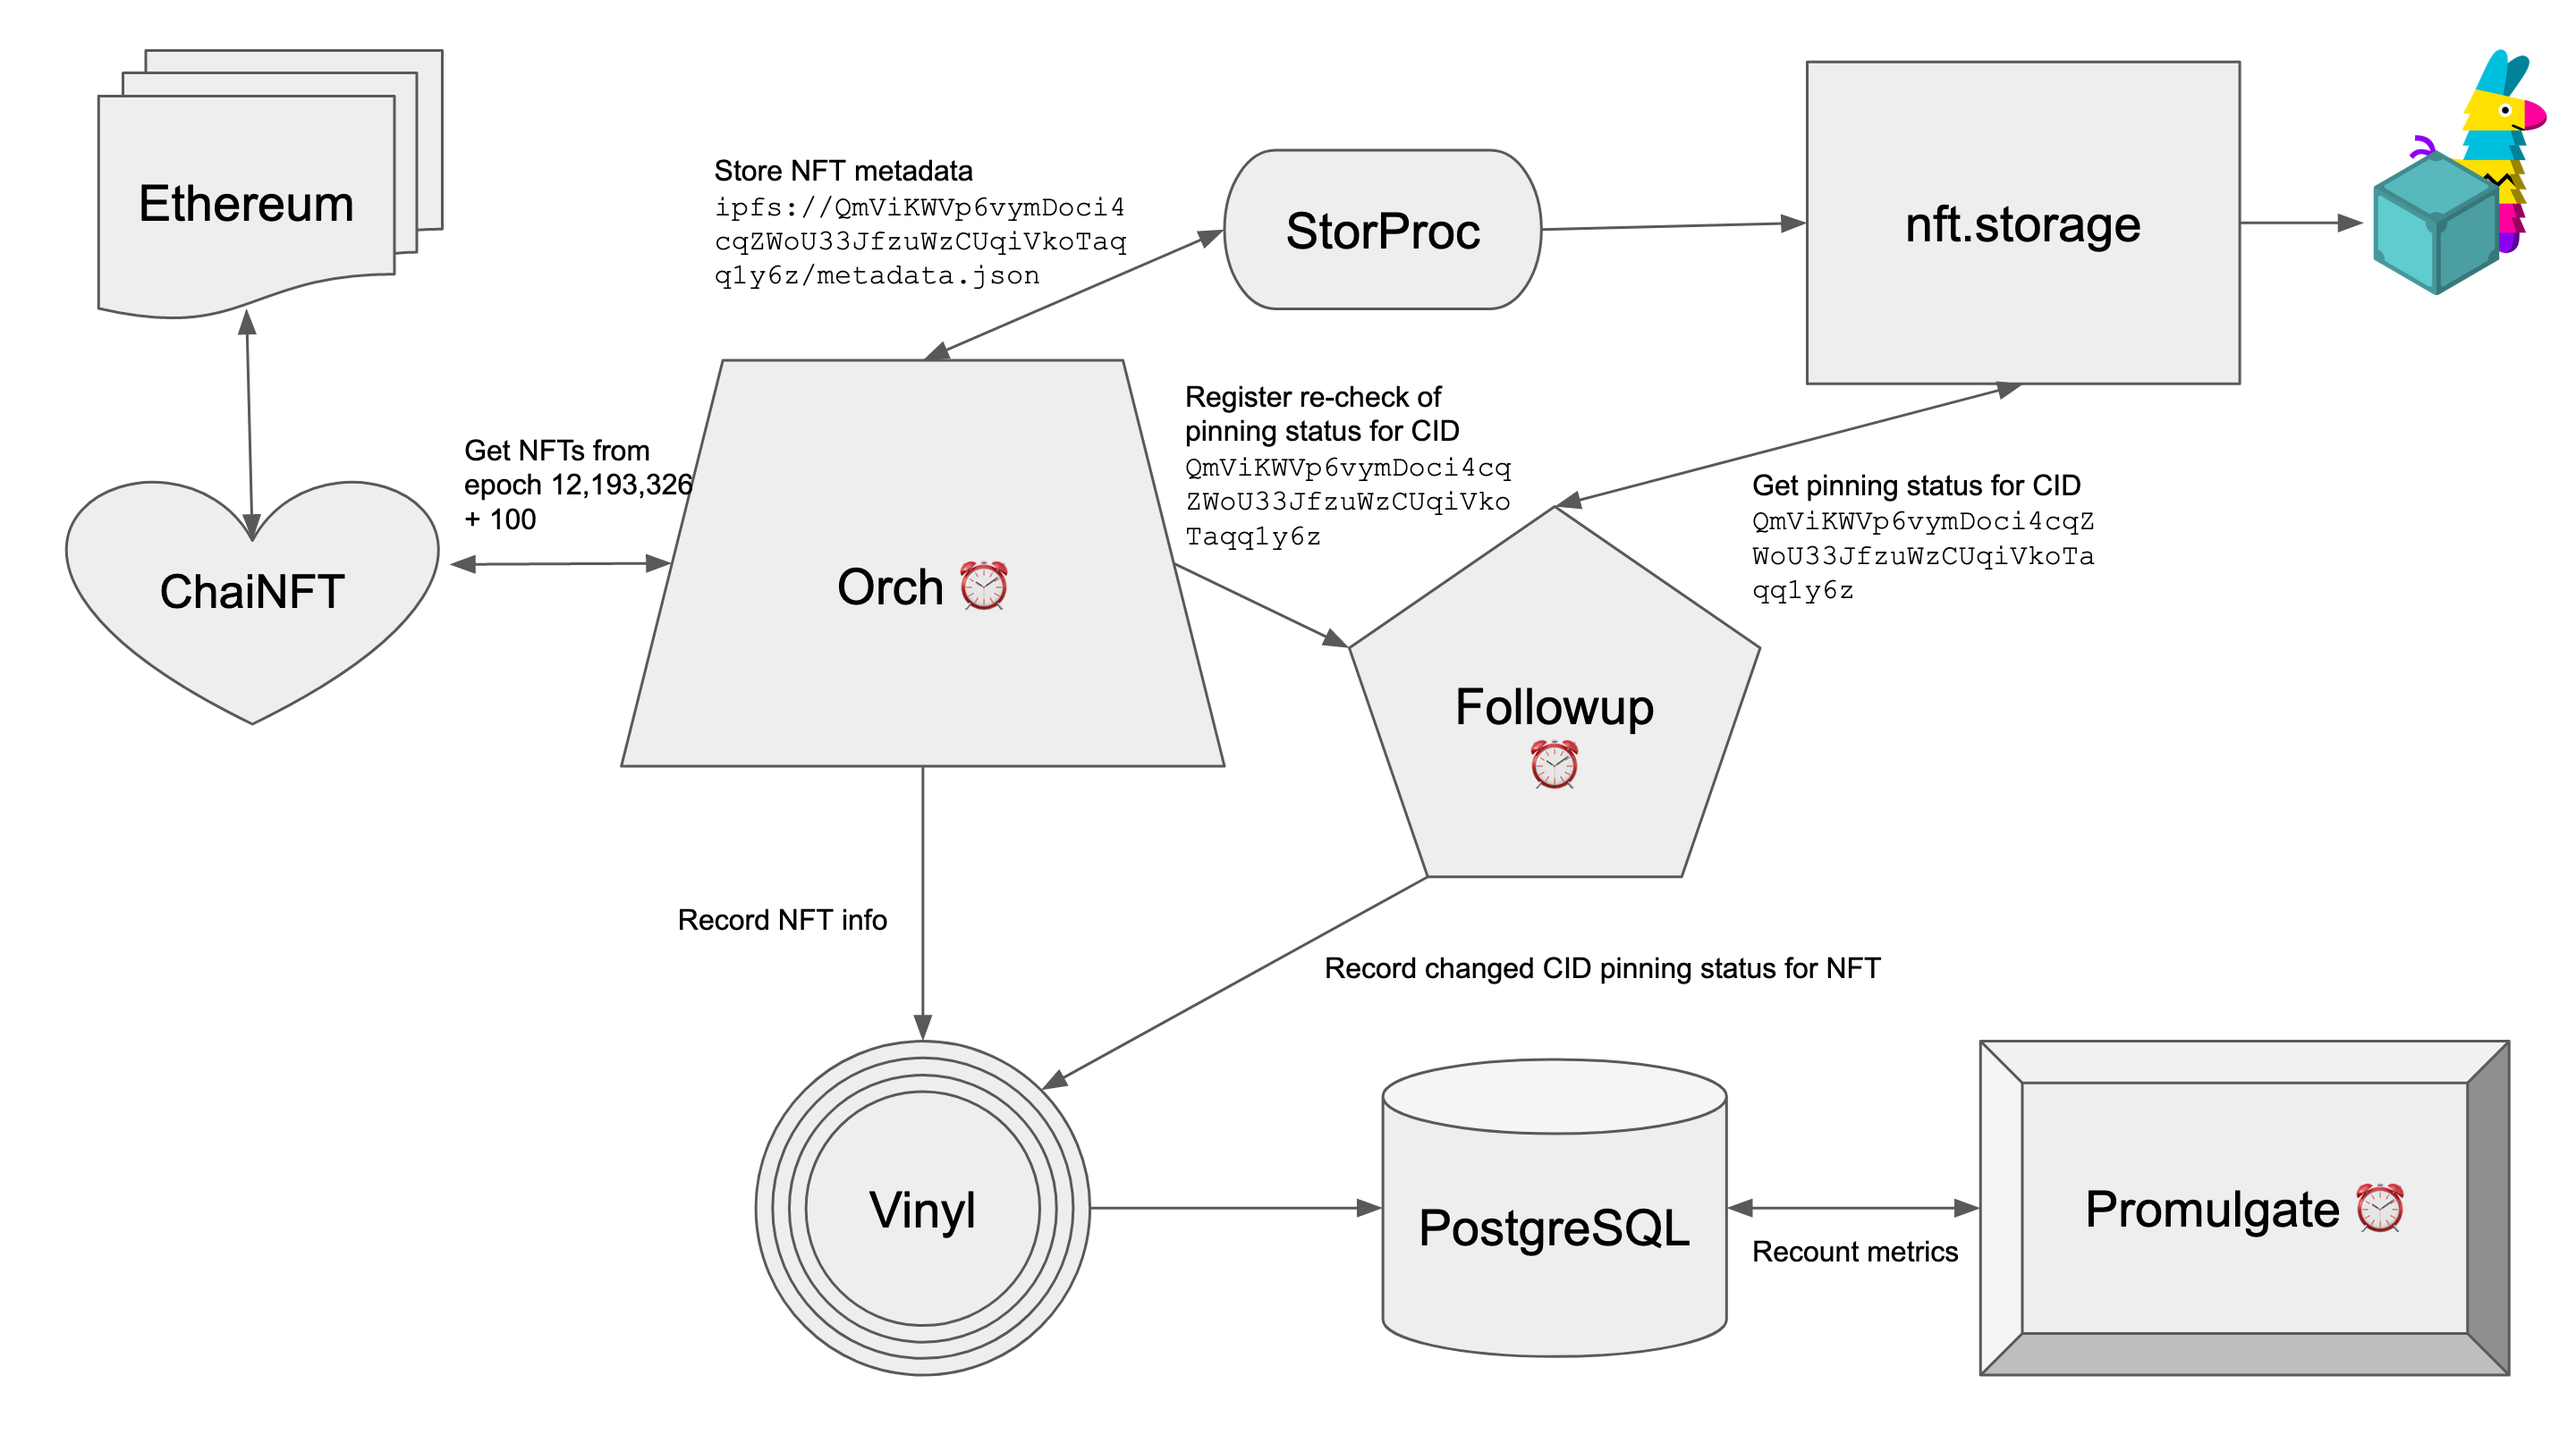
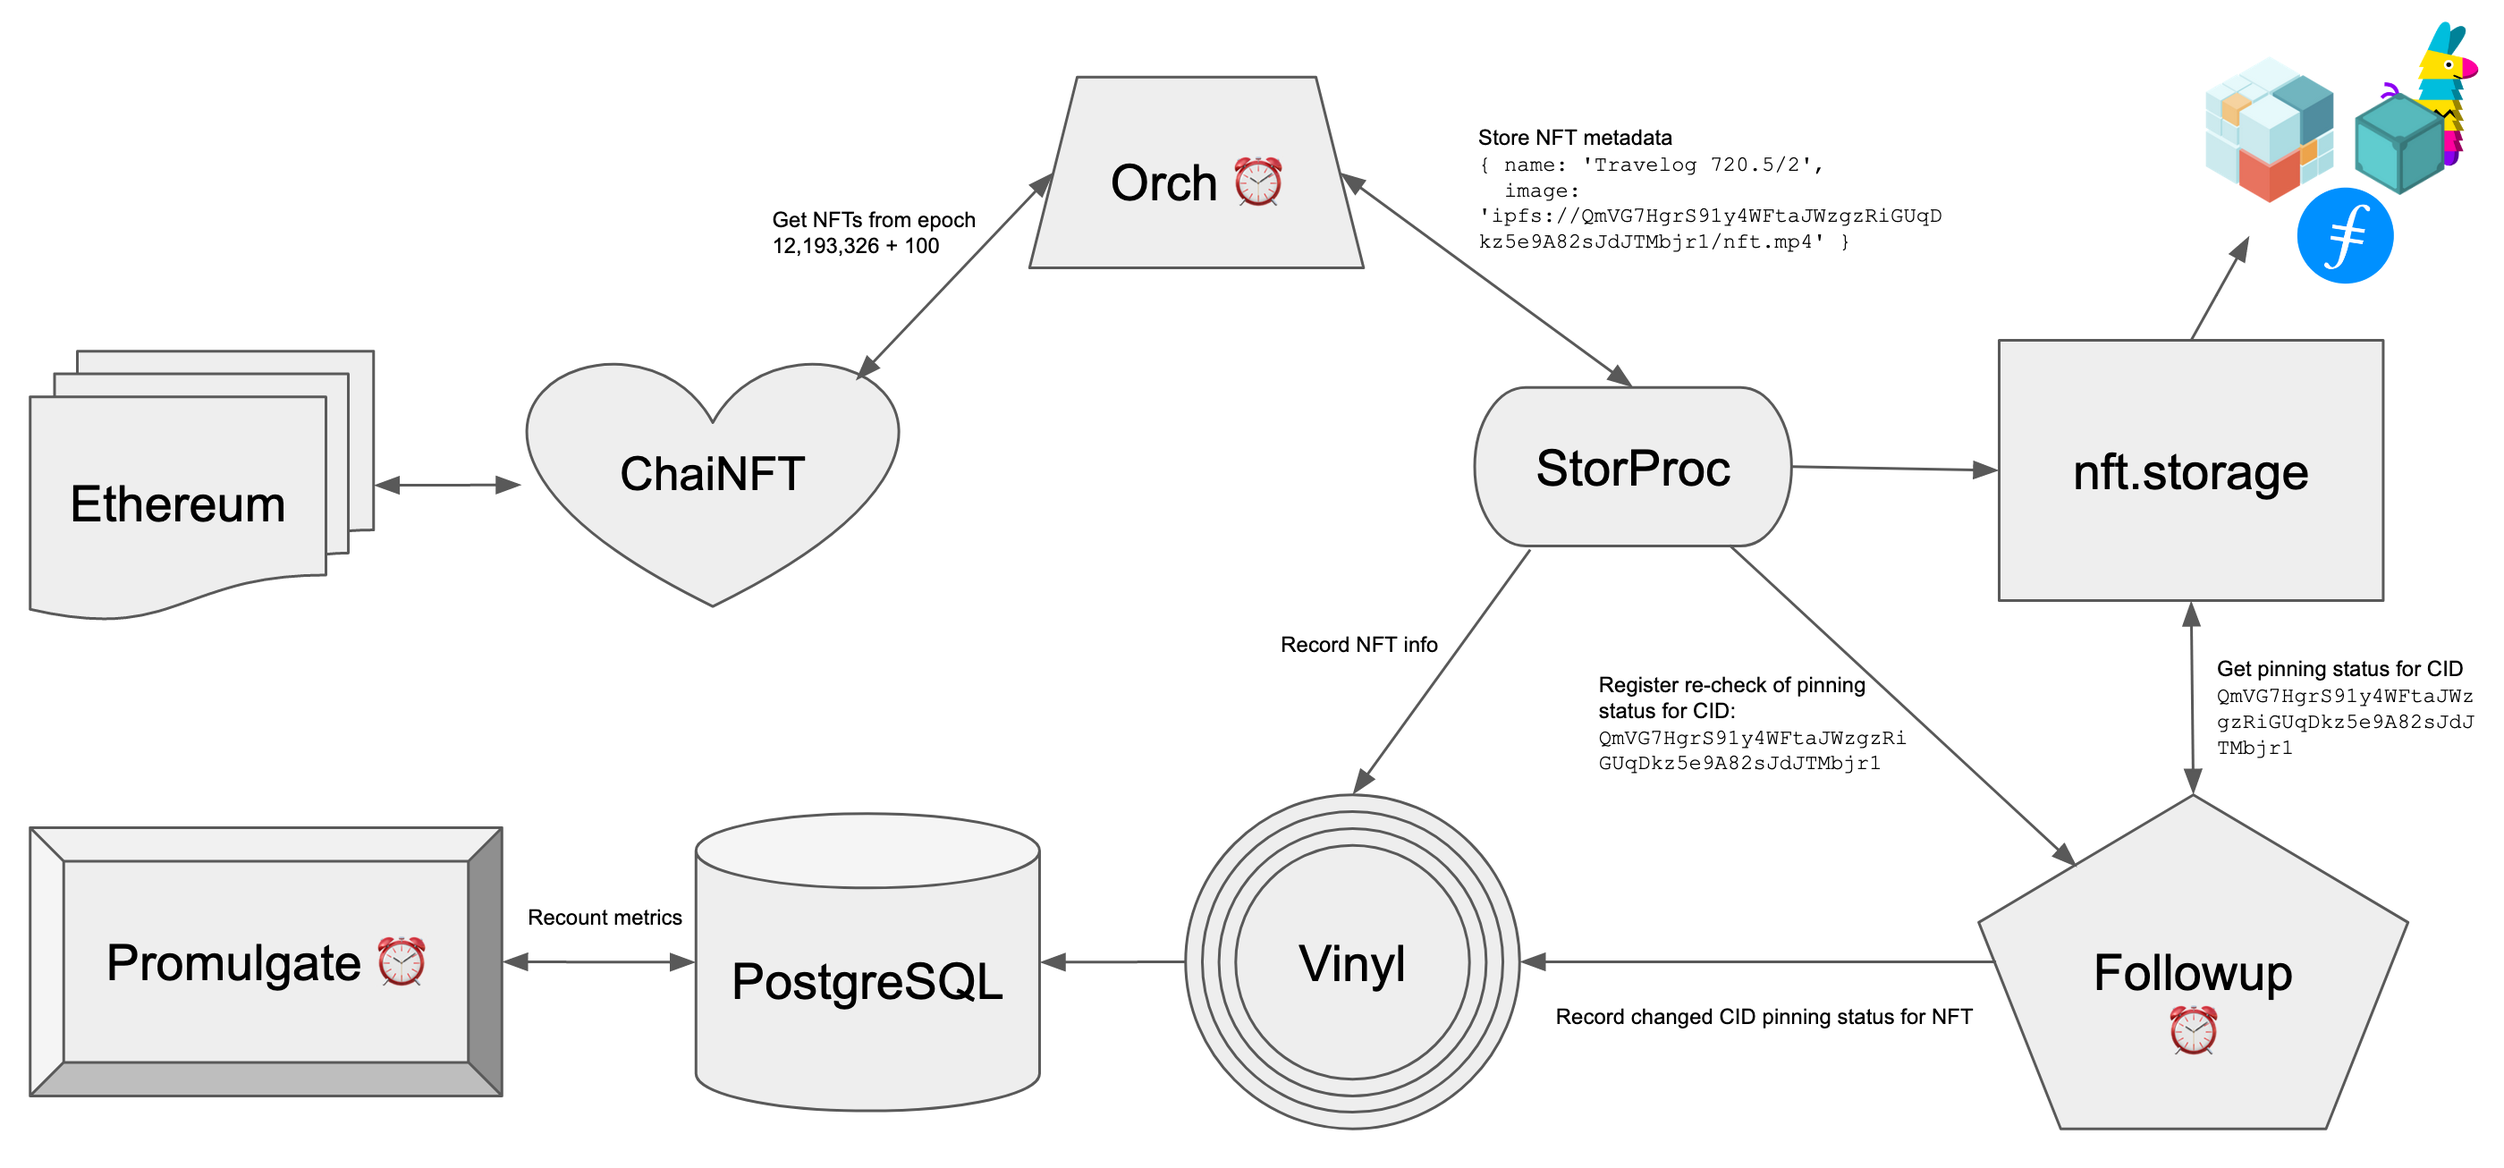
docs: update diagram and explanation
Cloudflare subresource request limits mean we've had to shift responsibility of Orch to StorProc. It'll actually be faster like this.

diff --git a/README.md b/README.md
@@ -9,10 +9,21 @@ Saving the NFTs by storing them on [nft.storage](https://nft.storage).
 * ChaiNFT λ
     * Inspects a chain between 2 epochs, finds NFTs and returns info about them.
     * Chain type (ETH), offset & limit (max 100)
+* Orch ⏰λ
+    * Manages scraping and storing.
+    * Calls ChaiNFT from last epoch to current epoch.
+        * Limit 100 epochs per "page"
+        * For each NFT...
+            * Calls StorProc.
 * StorProc λ
-    * Accepts a link to something storable, like a URL, a CID, whatever, and attempts to store it on nft.storage.
-    * This will likely be using the pinning service API so success may not be instant.
-    * Returns CID and pin status.
+    * Accepts NFT on-chain info and the NFT's metadata.json.
+    * Calls Vinyl to record NFT existence.
+    * Extracts storable links.
+        * For each link.
+            * If URL then download data.
+            * Calls nft.storage `/upload` or `/pin` depending on link type.
+            * Calls Vinyl to update pin status for asset.
+        * Calls Followup, passing CIDs of assets not already pinned.
 * Vinyl λ
     * Records information and pin status for assets of an NFT.
     * Create logs existence and expected followup calls.
@@ -28,17 +39,6 @@ Saving the NFTs by storing them on [nft.storage](https://nft.storage).
             * If failed, resubmit.
             * Update last check time and resubmit count.
             * If too old or too resubmitted then call Vinyl to log perma-fail.
-* Orch ⏰λ
-    * Manages scraping and initial storing.
-    * Call ChaiNFT from last epoch to current epoch.
-        * Limit 100 epochs per "page"
-        * For each NFT...
-            * Call Vinyl to log existence.
-            * Extract storable links.
-            * For each link.
-                * Call StorProc.
-                * Call Vinyl to update pin status for asset.
-                * Call Followup iff asset is not already pinned.
 * Promulgate λ + ⏰λ
     * Periodic recounts of metrics, totals cached in KV store.
     * Exposes prometheus metrics endpoint.
